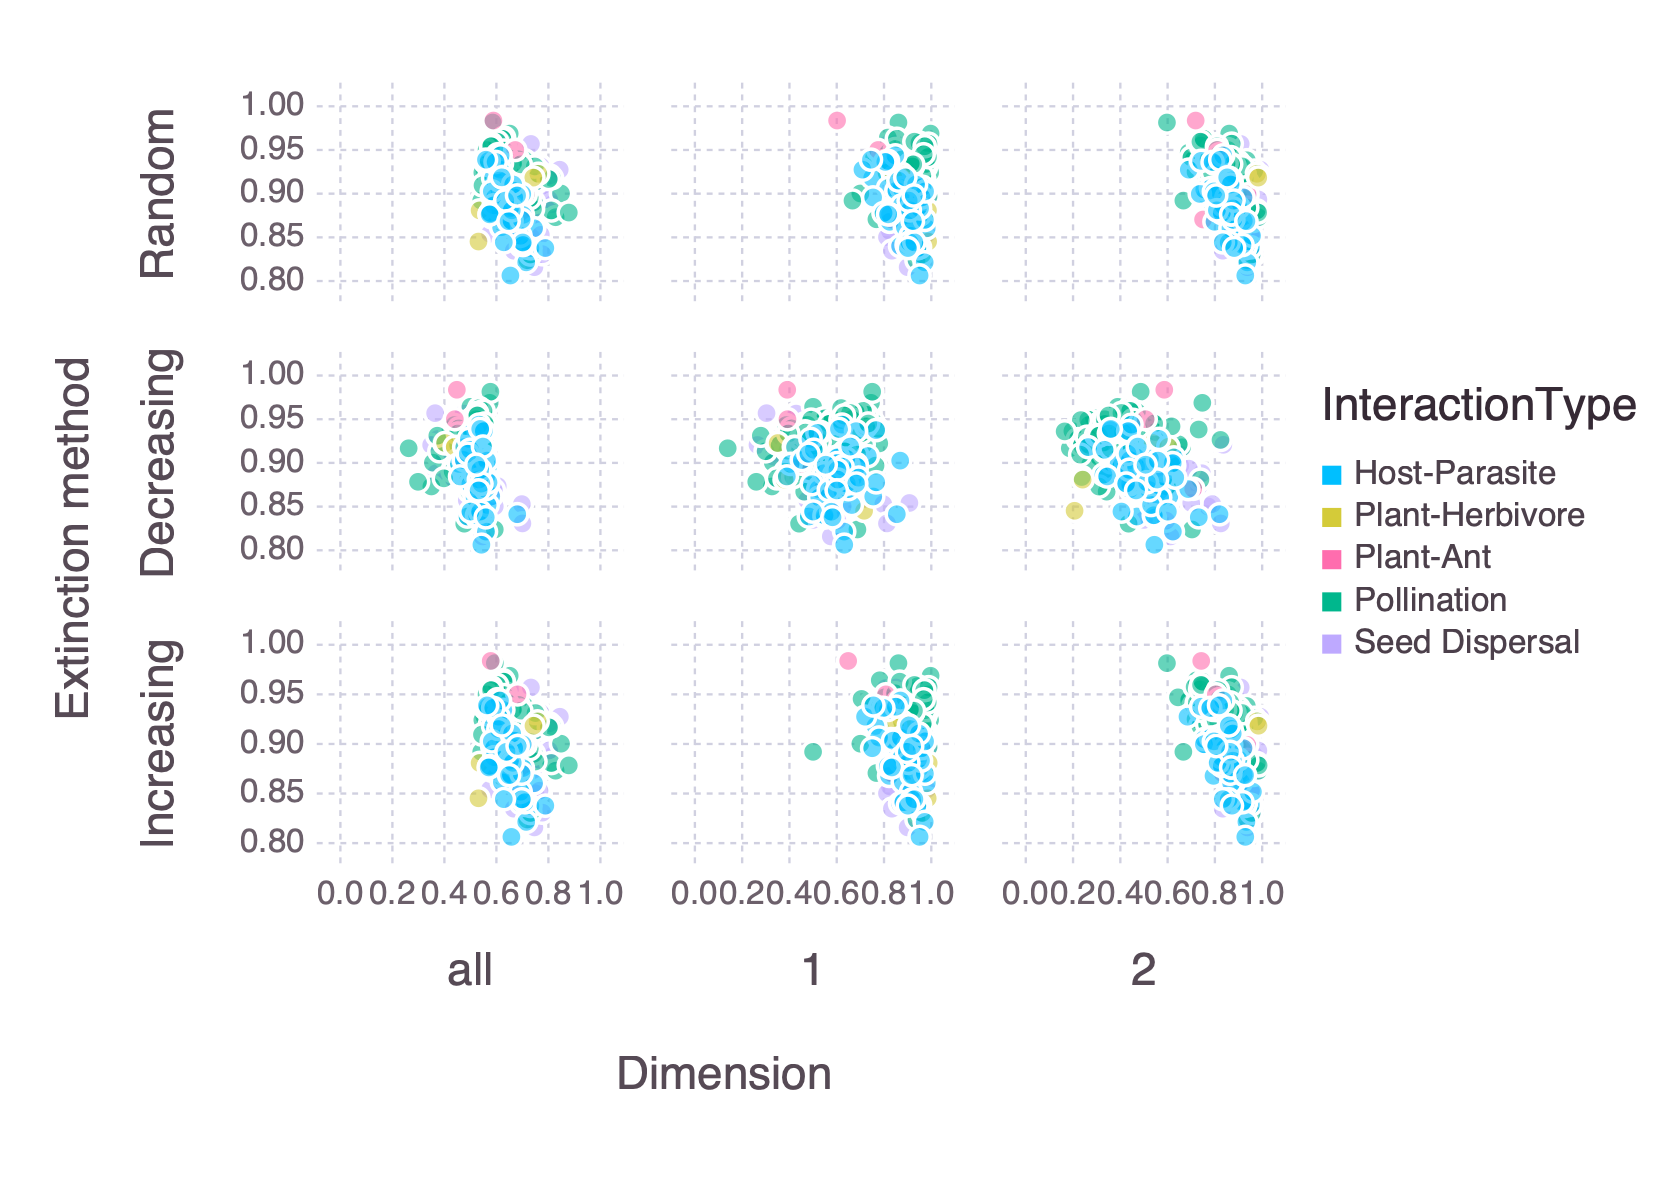
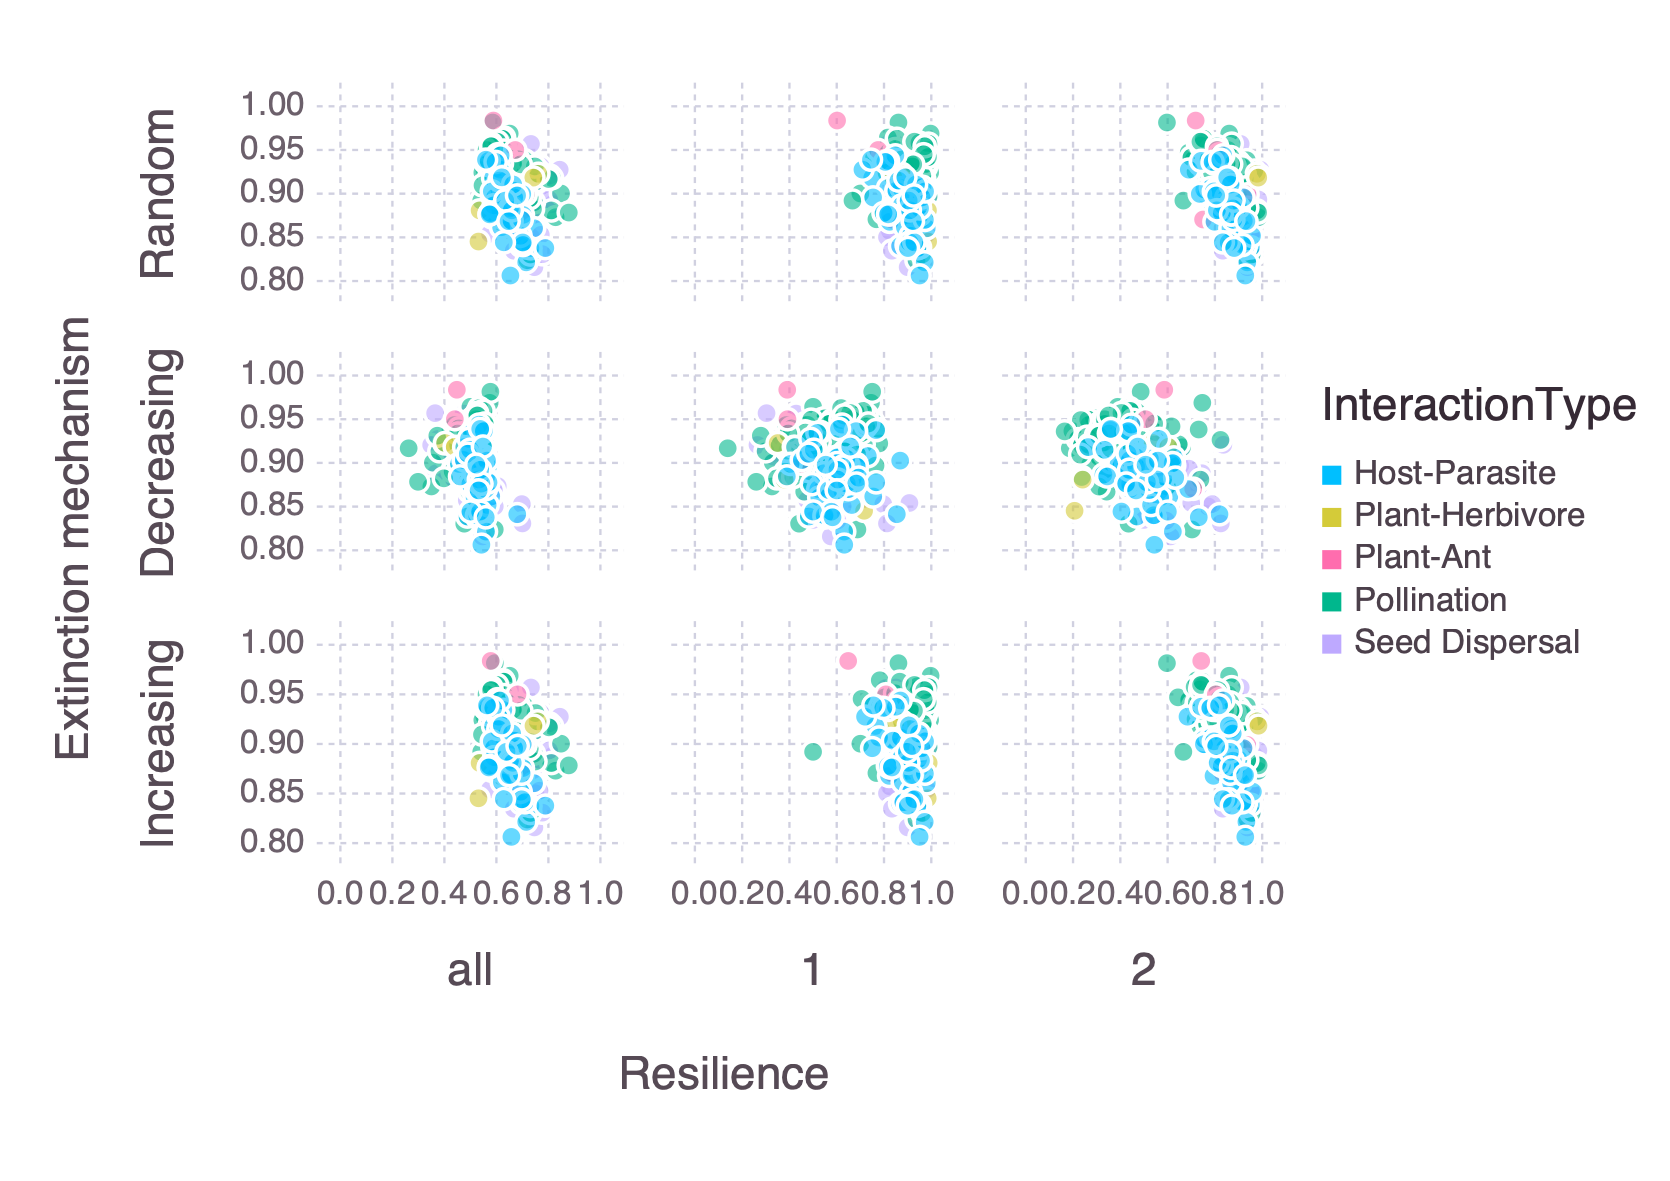
Results (1st pass)

Changed region(s): [[0.0311, 0.2743, 0.0623, 0.6401], [0.3737, 0.884, 0.4982, 0.945]]

diff --git a/manuscript.md b/manuscript.md
@@ -67,36 +67,33 @@ Referring to figures:
 General comments RE figures:
   The axis labels still need to be 'fixed'
   Do we *really* need the legend for interaction types??? - Yes for colours though
-  We could maybe merge the bee swarm (beehive?) plots with the entropy/rank vs side figures (a thought that I'll probably change in about 10 minutes time)??
-  AUC fig - deffos needs some work
 -->
 
 ## Rank and entropy vs. size and interaction type
 
-- networks with more species have low rank deficiency but high entropy, and there is no obiovus difference between interaction types
+We sampled a total of 220 bipartite interaction networks from the Web of Life database. Different interaction types of the networks included pollination (n = 129), host-parasite (n = 51), seed dispersal (n = 32), plant-herbivore (n = 4), and plant-ant (n = 4) interactions. Networks that have a higher species richness (size) tend to have a lower rank deficiency and a higher entropy, with no obvious differences between networks of different interaction types (see @fig:size).
 
-![This is the legend of the figure](figures/size_v_rank&entropy.png){#fig:size}
+![The relationship between network richness and A) relative rank deficiency and B) entropy. The different types of interactions are indicated by the colours.](figures/size_v_rank&entropy.png){#fig:size}
 
-- there is no obvious relationship between rank and entropy, and it is not different across interaction types, this is because a lot of networks are actually full rank
+We do not see an obvious relationship between entropy and relative rank deficiency or differences between interaction types (@fig:entropy_v_rank), this is because a large proportion (0.63) of the networks are full rank.
 
-![This is the legend of the figure](figures/entropy_v_rank.png){#fig:entropy_v_rank}
+![The relationship between entropy and the relative rank deficiency of different species interaction networks Colours indicate the different interaction types of the networks.](figures/entropy_v_rank.png){#fig:entropy_v_rank}
 
-- QUESTION: what is the proportion of networks that are full rank? no need for a figure, but you can give the values in the text
+Upon closer inspection we find that the entropy values of networks are quite high (between 0.8 - 1) and no obvious difference between interaction types, but some variation within the different interaction types <!--- although this last phrase might not be the 'best' as there is some 'clustering' for pollination networks... ---> (+@fig:type)
 
-![This is the legend of the figure](figures/interactiontype_v_entropy.png){#fig:type}
+![The calculated entropy of different interaction networks of different interaction types](figures/interactiontype_v_entropy.png){#fig:type}
 
-- change fig:type to only show entropy - comment on the fact entropy values are quite high
+## Rank and entropy vs. other measures of network architecture
 
-## Rank and entropy vs. other measures of network structure
+We find that entropy appears to have a negative relationship with both nestedness and spectral radius, with no clear differences between the types of interactions (+@fig:other).
 
-![This is the legend of the figure](figures/others_v_entropy.png){#fig:other}
-
-Entropy shows a relationship with other measures of network complexity ∴ it itself could act as a measure of complexity?
+![The relationship between entropy and A.) the nestedness, and B) the spectral radius of interaction networks. Colours indicate the different interaction types of the networks.](figures/others_v_entropy.png){#fig:other} <!--- when I one day figure out how to do idiv plot labels -->
 
 ## Rank and entropy vs network resilience
 
-![This is the legend of the figure](figures/entropy_v_AUCall.png){#fig:resilience}
+When looking at the relationship between entropy and the area under an extinction curve (as a proxy for resilience to extinction) we find differences depending on both the extinction mechanism as well as along which dimension the species removal occurred (+@fig:resilience). As a whole we do not observe any obvious relationships between entropy and resilience, nor for different interaction types. We do however see differences in the resilience of networks depending on how the extinctions were simulated. Generally we see a higher resilience in networks where species of only a specific group are removed or in networks where species were either randomly removed or based on an increasing number of interactions.
 
+![The relationship between entropy and the area under an extinction curve (as a proxy for resilience to extinction) for both different extinction mechanisms (Random = the removal of a random species, Decreasing = the removal of species in order of decreasing number of interactions (i.e most to least number of interactions), Increasing = the removal of species in order of increasing number of interactions) as well as along different dimensions (species groups) of the network (all = any species, 1 = only top-level species, and 2 = only bottom-level species) Colours indicate the different interaction types of the networks.](figures/entropy_v_AUCall.png){#fig:resilience}
 
 # Discussion
 
